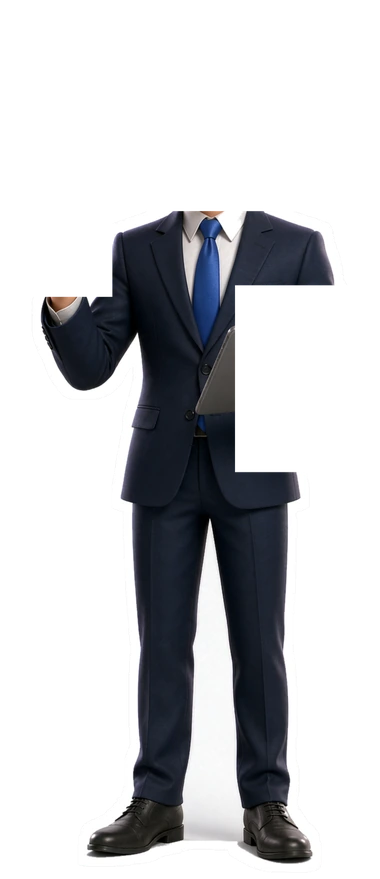
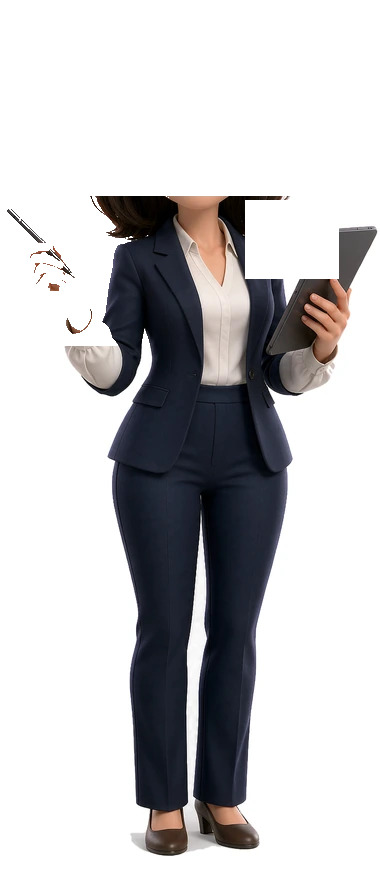
Fix hero board ghosting: re-cut clickable character layers from the female source
- tools/mkchar.py: cut body/head/tab/arm/wave_arm layers from the board source's
  character_standee.png, aligned to the .de-char box; layer sum verified == figure
- build.py: sync .de-l-head / .de-l-arm transform origins to the new layer canvas
- media_path(ver=True) for char layers so swapped-but-same-name assets bust cache
- layers now match the female board image (avg diff 3.1 vs 57.2 against the male set)

Changed region(s): [[0.0289, 0.215, 1.0, 0.9829], [0.4053, 0.5529, 0.4921, 0.5836]]

diff --git a/digital-employee.html b/digital-employee.html
@@ -957,8 +957,10 @@ footer .ft-logo { font-size:18px; font-weight:900; color:var(--brand-teal); marg
 /* 5 个分层全部 load 完成后由 JS 加 .ready 整体淡入，避免"身体→头→手"逐块弹出的拼装感 */
 .de-char.ready { opacity:1; }
 .de-l { position:absolute; inset:0; width:100%; height:100%; display:block; pointer-events:none; }
-.de-l-head { transform-origin:57.16% 23.62%; }
-.de-l-arm  { transform-origin:29.08% 31.44%; }
+/* ⚠ 人物分层的转动轴心必须与 media/de_char_*.webp 对应：
+   换立牌人物（男/女）后跑 tools/mkchar.py，把它打印的两个百分比抄到这里 */
+.de-l-head { transform-origin:50.08% 22.30%; }
+.de-l-arm  { transform-origin:38.16% 38.61%; }
 .de-l-tab  { transform-origin:84.75% 41.87%; }
 @keyframes deIdle { 0%,100%{ transform:translateY(0) rotate(0deg);} 50%{ transform:translateY(-5px) rotate(.3deg);} }
 /* 动作：打招呼（挥手·不拿笔）/ 转身（人物侧身）/ 转到背面 / 复位 */
@@ -1779,7 +1781,7 @@ a.pth-a:hover { background:rgba(255,255,255,.13); }
             <div class="de-face de-front">
[1 lines of base64/hex data omitted]
               <picture><source type="image/avif" srcset="media/de_board_front_m.avif 640w, media/de_board_front_1x.avif 560w, media/de_board_front.avif 1120w" sizes="(max-width:768px) 320px, 560px"><img class="de-img" src="media/de_board_front_1x.webp" srcset="media/de_board_front_m.webp 640w, media/de_board_front_1x.webp 560w, media/de_board_front.webp 1120w" sizes="(max-width:768px) 320px, 560px" width="560" height="715" alt="营销AI小秘 场景能力立牌" decoding="async" fetchpriority="high"></picture>
-              <div class="de-char" id="deChar" title="点我切换动作"><img class="de-l de-l-body" src="media/de_char_body.webp" alt="" decoding="async"><img class="de-l de-l-tab" src="media/de_char_tab.webp" alt="" decoding="async"><img class="de-l de-l-arm" src="media/de_char_arm.webp" alt="" decoding="async"><img class="de-l de-l-head" src="media/de_char_head.webp" alt="" decoding="async"><img class="de-l de-l-arm de-arm-wave" src="media/de_char_wave_arm.webp" alt="" decoding="async"></div>
+              <div class="de-char" id="deChar" title="点我切换动作"><img class="de-l de-l-body" src="media/de_char_body.webp?v=1790253593" alt="" decoding="async"><img class="de-l de-l-tab" src="media/de_char_tab.webp?v=1790253596" alt="" decoding="async"><img class="de-l de-l-arm" src="media/de_char_arm.webp?v=1790253597" alt="" decoding="async"><img class="de-l de-l-head" src="media/de_char_head.webp?v=1790253594" alt="" decoding="async"><img class="de-l de-l-arm de-arm-wave" src="media/de_char_wave_arm.webp?v=1790253598" alt="" decoding="async"></div>
               <div class="de-sheen"></div>
             </div>
           </div>

diff --git a/tools/mkchar.py b/tools/mkchar.py
@@ -1,0 +1,192 @@
+#!/usr/bin/env python
+# -*- coding: utf-8 -*-
+"""
+营销AI小秘 · 立牌「可点击角色」分层素材生成（男女版本切换用）
+
+背景
+----
+页头立牌 = 立牌图（人物已烘焙在图里） + 叠在上面的一层"可点击角色"（media/de_char_*.webp）。
+点击「打招呼 / 转身」动的是上层那 5 张分层图。所以：
+
+    ⚠ 立牌图换成哪个版本（男/女），de_char_*.webp 就必须换成同一个版本，
+       否则上层的男角色压在底图女角色上 → 出现"男女重影"。
+
+本脚本：从立牌源目录里的 character_standee.png（带 alpha 的人物素材）切出 5 层，
+按立牌图的几何对齐，写回 media/de_char_*.webp。
+
+用法
+----
+    python tools/mkchar.py            # 生成 + 校验
+    python tools/mkchar.py --dry      # 只校验、不写文件
+
+源图取自 content.md 的「页头立牌源图」，同目录下的 assets/character_standee.png。
+
+切分参数（CUT）是按「当前源图」调过的，换角色素材（不同姿势）时要重看一眼：
+  · HEAD_Y    头部/身体的分界线（脖子高度，画布像素）
+  · ARM_BOX   手臂区（左侧，用亮度筛出浅色衣袖/手，避免把深色裙摆切进去）
+  · TAB_BOX   平板区（这一层没有任何动画引用，切不准也不会露馅）
+  · 其余 = body
+分层之和严格等于原人物轮廓（脚本会校验，差值为 0）。
+"""
+import os
+import re
+import sys
+
+from PIL import Image
+
+# ---------------- 路径 ----------------
+
+BASE = os.path.dirname(os.path.dirname(os.path.abspath(__file__)))   # ai-marketing-site/
+CONTENT = os.path.join(BASE, 'content.md')
+MEDIA = os.path.join(BASE, 'media')
+
+# 立牌海报画布与人物摆放（与 立牌/refresh.py 里的 CHAR_TOP / CHAR_HEIGHT / CHAR_CX 保持一致）
+POSTER_W, POSTER_H = 2100.0, 2680.0
+CHAR_TOP, CHAR_HEIGHT, CHAR_CX = 480.0, 1600.0, 1050.0
+
+# 上层角色的 CSS 盒（与 build.py 里 .de-char 的 left/top/width/height 一致）
+BOX = (695.0, 465.0, 705.0, 1630.0)
+CANVAS = (380, 879)
+
+# ---------------- 切分参数（按当前源图调过） ----------------
+
+HEAD_Y = 196          # 脖子高度（画布 380x879 下的 y）
+ARM_BOX = dict(x0=0, x1=168, y0=176, y1=345, lum_min=118)
+TAB_BOX = dict(x0=245, x1=338, y0=200, y1=278)
+WAVE_ROT = 0.0        # wave_arm 预旋转角度（0 = 与手臂同一张图，挥手靠 CSS 的 deWave 旋转）
+
+LAYERS = ('body', 'head', 'tab', 'arm', 'wave_arm')
+
+
+def read_src():
+    """从 content.md 读「页头立牌源图」，推出同目录的 character_standee.png。"""
+    text = open(CONTENT, encoding='utf-8').read()
+    m = re.search(r'^\|\s*页头立牌源图\s*\|\s*(.+?)\s*\|\s*$', text, re.M)
+    if not m:
+        raise SystemExit('× content.md 里找不到「页头立牌源图」')
+    board = m.group(1).strip()
+    standee = os.path.join(os.path.dirname(board), 'assets', 'character_standee.png')
+    for p in (board, standee):
+        if not os.path.exists(p):
+            raise SystemExit('× 找不到文件：%s' % p)
+    return board, standee
+
+
+def build_canvas(standee_path):
+    """把人物素材按立牌图的几何放进 380x879 的层画布。"""
+    src = Image.open(standee_path).convert('RGBA')
+    cw, ch = CHAR_HEIGHT * src.size[0] / float(src.size[1]), CHAR_HEIGHT
+    css_x0, css_y0 = CHAR_CX - cw / 2.0, CHAR_TOP
+    k = CANVAS[0] / BOX[2]
+    canvas = Image.new('RGBA', CANVAS, (0, 0, 0, 0))
+    size = (int(round(cw * k)), int(round(ch * k)))
+    pos = (int(round((css_x0 - BOX[0]) * k)), int(round((css_y0 - BOX[1]) * k)))
+    canvas.paste(src.resize(size, Image.LANCZOS), pos)
+    return canvas, size, pos, k
+
+
+def split(canvas):
+    """按 HEAD_Y / ARM_BOX / TAB_BOX 把人物轮廓切成 4 块（和为全体）。"""
+    A = canvas.getchannel('A').load()
+    L = canvas.convert('L').load()
+    w, h = canvas.size
+    parts = {k: set() for k in ('head', 'arm', 'tab')}
+    sil = set()
+    for y in range(h):
+        for x in range(w):
+            if A[x, y] <= 100:
+                continue
+            sil.add((x, y))
+            if y < HEAD_Y:
+                parts['head'].add((x, y))
+            elif (ARM_BOX['x0'] <= x <= ARM_BOX['x1'] and ARM_BOX['y0'] <= y <= ARM_BOX['y1']
+                  and L[x, y] >= ARM_BOX['lum_min']):
+                parts['arm'].add((x, y))
+            elif TAB_BOX['x0'] <= x <= TAB_BOX['x1'] and TAB_BOX['y0'] <= y <= TAB_BOX['y1']:
+                parts['tab'].add((x, y))
+    parts['body'] = sil - parts['head'] - parts['arm'] - parts['tab']
+    return parts, sil
+
+
+def to_image(canvas, pts, pivot=None, deg=0.0):
+    """把像素集合还原成一张透明图；可选绕 pivot 旋转（用于 wave_arm）。"""
+    w, h = canvas.size
+    mask = Image.new('L', (w, h), 0)
+    mp = mask.load()
+    for (x, y) in pts:
+        mp[x, y] = 255
+    layer = Image.new('RGBA', (w, h), (0, 0, 0, 0))
+    layer.paste(canvas, (0, 0), mask)
+    if deg and pivot:
+        return layer.rotate(deg, resample=Image.BICUBIC, center=pivot)
+    return layer
+
+
+def composite(layers):
+    out = Image.new('RGBA', CANVAS, (0, 0, 0, 0))
+    for im in layers:
+        out = Image.alpha_composite(out, im)
+    return out
+
+
+def main():
+    try:
+        sys.stdout.reconfigure(encoding='utf-8', errors='replace')
+    except Exception:
+        pass
+    dry = '--dry' in sys.argv
+
+    board, standee = read_src()
+    canvas, size, pos, k = build_canvas(standee)
+    print('─' * 62)
+    print('立牌源图  %s' % os.path.basename(board))
+    print('人物素材  %s  %s' % (os.path.basename(standee), Image.open(standee).size))
+    print('层画布 %dx%d   人物贴图 %dx%d @ (%d,%d)   缩放 %.4f' % (CANVAS + size + pos + (k,)))
+
+    parts, sil = split(canvas)
+    print('像素：' + '  '.join('%s %d' % (n, len(parts[n])) for n in ('head', 'arm', 'tab', 'body')))
+
+    # 手臂转动轴 = 肩点（手臂与身体相连处：手臂中下部的最右一撮）
+    ays = [y for (x, y) in parts['arm']]
+    lo = min(ays) + (max(ays) - min(ays)) * 0.4
+    lower = [(x, y) for (x, y) in parts['arm'] if y >= lo]
+    x_piv = max(x for (x, y) in lower)
+    edge = [y for (x, y) in lower if x >= x_piv - 12]
+    pivot = (float(x_piv - 4), float(sum(edge) / len(edge)))
+    imgs = {n: to_image(canvas, parts[n]) for n in ('body', 'head', 'tab', 'arm')}
+    imgs['wave_arm'] = to_image(canvas, parts['arm'], pivot, WAVE_ROT)
+
+    # 校验：四层之和 == 原人物轮廓（只允许半透明描边像素缺失）
+    back = composite([imgs['body'], imgs['tab'], imgs['arm'], imgs['head']])
+    a1, a2 = canvas.load(), back.load()
+    diff = faint = 0
+    for y in range(CANVAS[1]):
+        for x in range(CANVAS[0]):
+            p, q = a1[x, y], a2[x, y]
+            if abs(p[3] - q[3]) > 2 or (p[3] and q[3] and max(abs(p[i] - q[i]) for i in range(3)) > 2):
+                diff += 1
+                if p[3] <= 100:
+                    faint += 1
+    print('校验：分层合成 vs 原人物  差异像素 %d（其中边缘半透明 %d → 属正常）' % (diff, faint))
+
+    # 头部转动轴（脖子中点）与手臂转动轴（肩点），写成 build.py 的 CSS 百分比
+    hx = [x for (x, y) in parts['head'] if y > HEAD_Y - 6] or [0]
+    neck = (sum(hx) / len(hx), HEAD_Y)
+    print('CSS： .de-l-head { transform-origin:%.2f%% %.2f%%; }   /* 脖子 %s */'
+          % (neck[0] / CANVAS[0] * 100, neck[1] / CANVAS[1] * 100, tuple(round(v) for v in neck)))
+    print('CSS： .de-l-arm  { transform-origin:%.2f%% %.2f%%; }   /* 肩点 %s */'
+          % (pivot[0] / CANVAS[0] * 100, pivot[1] / CANVAS[1] * 100, tuple(round(v) for v in pivot)))
+
+    if dry:
+        print('（--dry 只校验，未写文件）')
+        return 0
+    for n in LAYERS:
+        out = os.path.join(MEDIA, 'de_char_%s.webp' % n)
+        imgs[n].save(out, 'WEBP', quality=92, alpha_quality=100, method=6)
+        print('  写出 %-26s %6.1f KB  %s' % (os.path.basename(out), os.path.getsize(out) / 1024, imgs[n].size))
+    print('─' * 62)
+    return 0
+
+
+if __name__ == '__main__':
+    sys.exit(main())

diff --git a/build.py b/build.py
@@ -14,8 +14,12 @@ if hasattr(sys.stdout, 'reconfigure'):
     sys.stdout.reconfigure(encoding='utf-8')
 
 
-def media_path(path):
-    """Auto-upgrade image paths to .webp if a compressed version exists."""
+def media_path(path, ver=False):
+    """Auto-upgrade image paths to .webp if a compressed version exists.
+
+    ver=True 时追加 `?v=<文件 mtime>`：立牌人物分层这类**文件名不变、内容会换**的素材
+    必须带版本号，否则浏览器会用旧图盖在新立牌上（男女重影就是这么来的）。
+    """
     if not path:
         return path
     # 自动补 media/ 前缀
@@ -27,7 +31,12 @@ def media_path(path):
         webp_path = base + '.webp'
         webp_full = os.path.join(os.path.dirname(os.path.abspath(__file__)), webp_path)
         if os.path.exists(webp_full):
-            return webp_path
+            path, full = webp_path, webp_full
+    if ver:
+        try:
+            path += '?v=%d' % int(os.path.getmtime(full))
+        except OSError:
+            pass
     return path
 
 
@@ -1695,8 +1704,10 @@ DE_CSS = '''<style>
 /* 5 个分层全部 load 完成后由 JS 加 .ready 整体淡入，避免"身体→头→手"逐块弹出的拼装感 */
 .de-char.ready { opacity:1; }
 .de-l { position:absolute; inset:0; width:100%; height:100%; display:block; pointer-events:none; }
-.de-l-head { transform-origin:57.16% 23.62%; }
-.de-l-arm  { transform-origin:29.08% 31.44%; }
+/* ⚠ 人物分层的转动轴心必须与 media/de_char_*.webp 对应：
+   换立牌人物（男/女）后跑 tools/mkchar.py，把它打印的两个百分比抄到这里 */
+.de-l-head { transform-origin:50.08% 22.30%; }
+.de-l-arm  { transform-origin:38.16% 38.61%; }
 .de-l-tab  { transform-origin:84.75% 41.87%; }
 @keyframes deIdle { 0%,100%{ transform:translateY(0) rotate(0deg);} 50%{ transform:translateY(-5px) rotate(.3deg);} }
 /* 动作：打招呼（挥手·不拿笔）/ 转身（人物侧身）/ 转到背面 / 复位 */
@@ -4004,9 +4015,9 @@ def build_digital_employee_page(data):
         lqip_html = f'<img class="de-lqip" src="{lqip_src}" alt="" aria-hidden="true">'
     layers = ''
     for nm in ('body', 'tab', 'arm', 'head'):
-        layers += f'<img class="de-l de-l-{nm}" src="{media_path(prefix + nm + ".png")}" alt="" decoding="async">'
+        layers += f'<img class="de-l de-l-{nm}" src="{media_path(prefix + nm + ".png", ver=True)}" alt="" decoding="async">'
     # 挥手版手臂（打招呼时切换显示，去掉手中的笔）
-    layers += f'<img class="de-l de-l-arm de-arm-wave" src="{media_path(prefix + "wave_arm.png")}" alt="" decoding="async">'
+    layers += f'<img class="de-l de-l-arm de-arm-wave" src="{media_path(prefix + "wave_arm.png", ver=True)}" alt="" decoding="async">'
 
     kpi_meta = de.get('kpi_meta', {})
     kpi = ''
